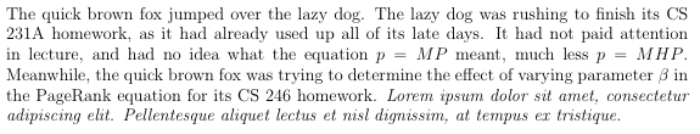
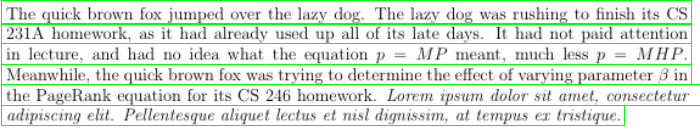
Top padding for lines in itl_paragraph.

diff --git a/itl_paragraph.py b/itl_paragraph.py
@@ -50,15 +50,31 @@ def parseParagraph(img, returnBounds=False):
     boundRects = [rect for rect in boundRects if rect[3] > heightThresh]
     boundRects = sorted(boundRects, key=lambda x: x[1])
 
+    # We assume that the image is wrapped fairly tightly around the paragraph
+    # We are only concerned with finding line boundaries, so extend the y-coordinate as
+    # far up as possible, and pad the width as well
+    w = img.shape[0]
+    adjustedRects = []
+    currentTopY = 0
+    bottomPad = 1
+    rightPad = 4
+    topPad = 1
+    for rect in boundRects:
+        y = max(currentTopY - topPad, 0)
+        h = rect[3] + (rect[1] - currentTopY) + bottomPad
+        adjustedRect = (rect[0], y, max(rect[2] + rightPad, w), h)
+        adjustedRects.append(adjustedRect)
+        currentTopY = rect[1] + rect[3] + bottomPad
+
     if DEBUG:
-        # for rect in boundRects:
+        # for rect in adjustedRects:
         #     cv2.rectangle(img, (rect[0], rect[1]), (rect[0] + rect[2], rect[1] + rect[3]), (0, 255, 0))
         cv2.imwrite(IMAGE_NAME + '-bounds.' + EXTENSION, img)
-        print '%d lines found in %s' % (len(boundRects), IMAGE_FILE)
+        print '%d lines found in %s' % (len(adjustedRects), IMAGE_FILE)
 
     # Extract lines from paragraph
     lines = []
-    for rect in boundRects:
+    for rect in adjustedRects:
         [x, y, w, h] = rect
         line = img[y:(y+h), x:(x+w)]
         lines.append(line)
